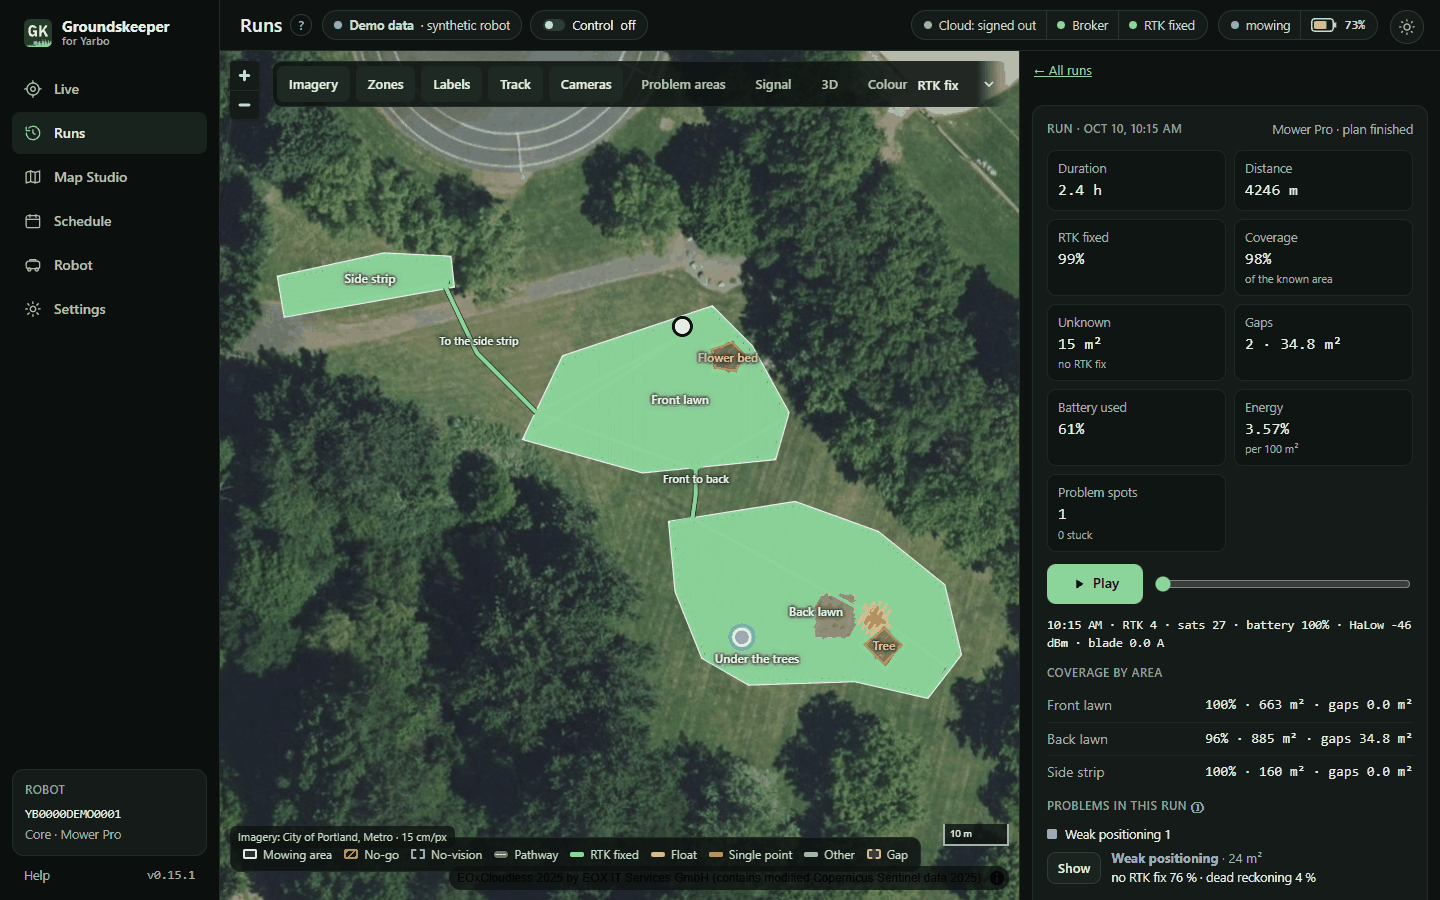
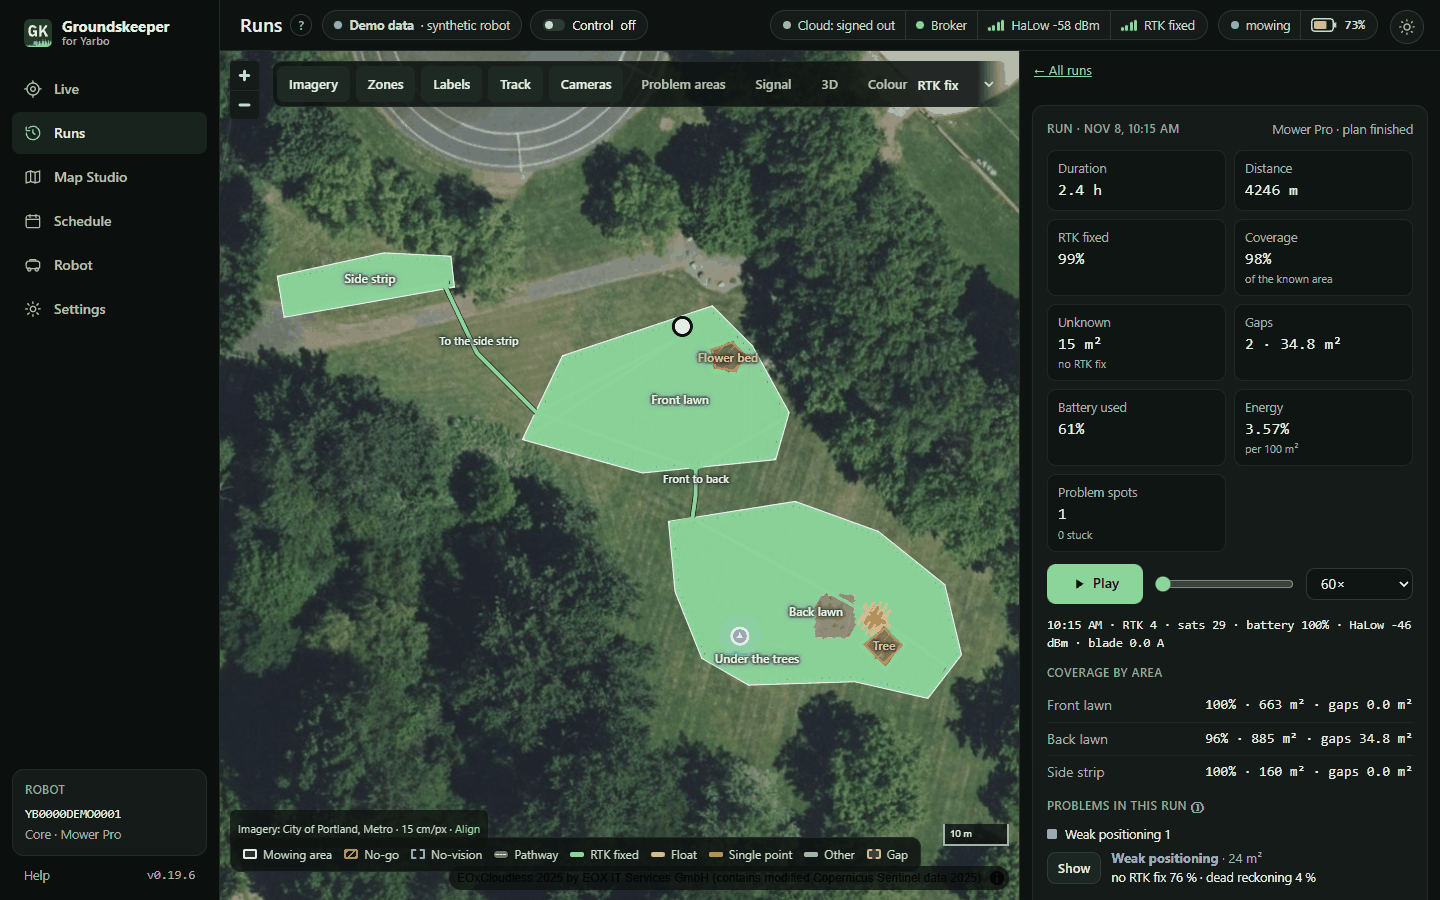
Replay speed in Runs: 1x to 300x real time or the whole run in ~30 s
A speed menu next to the replay slider. At a real speed the replay runs on
robot time and spends each tick sample by sample, hurrying through stretches
where the robot stands still or the samples stop and slowing again where it
moves. Between samples the dot and the 3D model move smoothly; across a break
the robot waits at the last sample. A slow page keeps the pace (a tick may
cover up to 1 s). The menu keeps its width at phone width.

diff --git a/web/app.js b/web/app.js
@@ -123,6 +123,8 @@ const state = {
   replayIndex: 0,
   replayTimer: null,
   replayOn: false,        // once Play or the slider is used, the run's track is drawn only up to the replay point
+  replaySpeed: readPref("replaySpeed", 60, (v) => [1, 10, 60, 300, 0].includes(v)),   // x real time; 0 = the whole run in ~30 s
+  replayT: null,          // the robot time a replay at a real speed has reached (between two samples)
   dataCache: null,
   fitted: false,
   imagery: null,          // { yard: {url, coordinates}, alignment, ref }
@@ -1619,7 +1621,13 @@ function runDetail() {
     h("div", { class: "replay" },
       playButton(),
       h("input", { type: "range", id: "scrub", min: "0", max: String(Math.max(0, rows.length - 1)), value: String(state.replayIndex),
-                   "aria-label": "Replay position", oninput: (e) => { state.replayOn = true; setReplay(Number(e.target.value)); } })),
+                   "aria-label": "Replay position", oninput: (e) => { state.replayOn = true; state.replayT = null; setReplay(Number(e.target.value)); } }),
+      h("select", { id: "replayspeed", class: "field slim", "aria-label": "Replay speed",
+                    title: "Replay speed, times real time. Stretches where the robot stands still go by quickly. Whole run plays it in about 30 s.",
+                    onchange: (e) => { state.replaySpeed = Number(e.target.value); writePref("replaySpeed", state.replaySpeed);
+                                       if (state.replayTimer) { stopPlay(); togglePlay(); } } },
+        [[1, "1×"], [10, "10×"], [60, "60×"], [300, "300×"], [0, "Whole run"]].map(([v, t]) =>
+          h("option", { value: String(v), selected: v === state.replaySpeed || null }, t)))),
     h("p", { class: "mono small", id: "replayinfo" }, replayText(replay, idx)),
     areas.length ? h("div", null, h("p", { class: "label", style: "margin-top:10px" }, "Coverage by area"),
       areas.map((a) => kv(a.name, `${num(a.coverage_pct_of_known)}% · ${num(a.covered_m2)} m² · gaps ${num(a.gap_m2, 1)} m²`)),
@@ -1858,14 +1866,15 @@ function drawCoverage() {
   drawRunTrack();
 }
 
-function setReplay(i) {
+// The replay point: row i, or `frac` of the way on to the next row (a replay at a real speed moves between samples).
+function setReplay(i, frac = 0) {
   const run = state.run;
   if (!run || !run.rows.length) return;
   state.replayIndex = Math.max(0, Math.min(i, run.rows.length - 1));
-  const r = run.rows[state.replayIndex];
+  const r = run.rows[state.replayIndex], n = frac > 0 ? run.rows[state.replayIndex + 1] : null;
   setSource("replay", { type: "FeatureCollection", features: [{ type: "Feature", properties: {},
-    geometry: { type: "Point", coordinates: [r[1], r[2]] } }] });
-  robot3dReplay(r);
+    geometry: { type: "Point", coordinates: n ? [r[1] + (n[1] - r[1]) * frac, r[2] + (n[2] - r[2]) * frac] : [r[1], r[2]] } }] });
+  robot3dReplay(r, n, frac);
   const idx = Object.fromEntries(run.fields.map((f, k) => [f, k]));
   const info = $("#replayinfo");
   if (info) info.textContent = replayText(r, idx);
@@ -1880,11 +1889,40 @@ function togglePlay() {
   if (!state.replayOn || state.replayIndex >= state.run.rows.length - 1) setReplay(0);     // a replay starts at the start
   state.replayOn = true;
   queueReplayTrack();
-  const step = Math.max(1, Math.round((state.run?.rows.length || 0) / 600));
-  state.replayTimer = setInterval(() => {
-    if (!state.run || state.replayIndex >= state.run.rows.length - 1) { stopPlay(); renderRuns(); return; }
-    setReplay(state.replayIndex + step);
-  }, 50);
+  state.replayT = null;                                  // picks up from the replay row
+  const speed = state.replaySpeed;
+  if (!speed) {                                          // the whole run in about 30 s
+    const step = Math.max(1, Math.round((state.run?.rows.length || 0) / 600));
+    state.replayTimer = setInterval(() => {
+      if (!state.run || state.replayIndex >= state.run.rows.length - 1) { stopPlay(); renderRuns(); return; }
+      setReplay(state.replayIndex + step);
+    }, 50);
+  } else {
+    // Robot time runs at `speed`. Where the robot stands still (parked, charging) or the samples stop (a break in the
+    // track) it runs far faster, and the robot waits at the last sample instead of sliding across the break.
+    const spAt = state.run.fields.indexOf("speed");
+    let last = performance.now();
+    state.replayTimer = setInterval(() => {
+      const rows = state.run && state.run.rows;
+      if (!rows || state.replayIndex >= rows.length - 1) { stopPlay(); renderRuns(); return; }
+      const now = performance.now(), dt = Math.min(1, (now - last) / 1000);      // a slow page keeps the pace
+      last = now;
+      let i = state.replayIndex, left = dt;
+      if (state.replayT === null || state.replayT < rows[i][0]) state.replayT = rows[i][0];
+      // Spend the tick sample by sample, each at its own rate, so a hurried stretch ends where the robot moves again.
+      while (left > 0 && i < rows.length - 1) {
+        const span = rows[i + 1][0] - rows[i][0];
+        const rate = span > TRACK_GAP_S || !(Math.abs(rows[i][spAt] || 0) > 0.03) ? Math.max(speed * 20, 600) : speed;
+        const need = (rows[i + 1][0] - state.replayT) / rate;
+        if (need > left) { state.replayT += left * rate; break; }
+        left -= Math.max(0, need);
+        state.replayT = rows[++i][0];
+      }
+      const n = rows[i + 1];
+      const frac = n && n[0] - rows[i][0] <= TRACK_GAP_S ? (state.replayT - rows[i][0]) / Math.max(1e-6, n[0] - rows[i][0]) : 0;
+      setReplay(i, Math.max(0, Math.min(1, frac)));
+    }, 50);
+  }
   $("#playbtn")?.replaceWith(playButton());
 }
 

diff --git a/web/robot3d.js b/web/robot3d.js
@@ -376,16 +376,26 @@ function r3dGate(s, now) {
   return false;
 }
 
-// A replay step: glide from where the model is to the replay row over the next timer tick.
-function robot3dReplay(row) {
+// A replay step: glide from where the model is to the replay point (row, or `frac` of the way on to `next`) over the
+// next timer tick.
+function robot3dReplay(row, next = null, frac = 0) {
   if (!row || !state.run || R3D.mode !== "replay" || !state.map || !state.map.getLayer("robot3d")) return;
   const f = Object.fromEntries(state.run.fields.map((k, i) => [k, i]));
-  const to = { lon: row[f.lon], lat: row[f.lat], heading: row[f.heading] ?? (R3D.pose ? R3D.pose.heading : 0),
-               pitch: row[f.pitch] || 0, roll: row[f.roll] || 0 };
+  const pose = (r) => ({ lon: r[f.lon], lat: r[f.lat], heading: r[f.heading] ?? (R3D.pose ? R3D.pose.heading : 0),
+                         pitch: r[f.pitch] || 0, roll: r[f.roll] || 0 });
+  const to = pose(row);
+  if (next && frac > 0) {
+    const b = pose(next);
+    to.lon += (b.lon - to.lon) * frac;
+    to.lat += (b.lat - to.lat) * frac;
+    to.heading = (to.heading + r3dAngle(b.heading - to.heading) * frac + 360) % 360;
+    to.pitch += (b.pitch - to.pitch) * frac;
+    to.roll += (b.roll - to.roll) * frac;
+  }
   if (!R3D.pose) { R3D.pose = to; r3dKick(); return; }
   const [kx, ky] = r3dMetres(to.lat);
   const far = Math.hypot((to.lon - R3D.pose.lon) * kx, (to.lat - R3D.pose.lat) * ky) > R3D_JUMP_M * 4;
-  R3D.glide = far ? null : { from: { ...R3D.pose }, to, t0: performance.now(), ms: state.replayTimer ? 60 : 120 };
+  R3D.glide = far ? null : { from: { ...R3D.pose }, to, t0: performance.now(), ms: state.replayTimer ? 55 : 120 };
   if (far) R3D.pose = to;
   r3dKick();
 }

diff --git a/web/style.css b/web/style.css
@@ -251,7 +251,8 @@ a { color: var(--link); }
 .legendrow i { display: inline-block; width: 14px; height: 5px; border-radius: 2px; }
 .legendrow i.ramp { width: 90px; height: 7px; }
 .replay { display: flex; align-items: center; gap: 10px; }
-.replay input { flex: 1; accent-color: var(--ok); }
+.replay input { flex: 1; min-width: 0; accent-color: var(--ok); }
+.replay select { flex: none; width: auto; }
 .gaplist { list-style: none; margin: 0; padding: 0; display: flex; flex-direction: column; gap: 6px; font-size: 13px; }
 .gaplist li { display: flex; align-items: center; gap: 10px; }
 .runlist .label { margin: 8px 4px; }

diff --git a/CHANGELOG.md b/CHANGELOG.md
@@ -18,6 +18,9 @@ robot card. Before 0.9.0 the panel had no version numbers; those changes are lis
   page, set with `OIDC_*` in the environment and modelled on Grafana's generic OAuth sign-in. Only the allowed groups
   or email domains get in, and the panel refuses to start with single sign-on on and neither set. `PANEL_PASSWORD=off`
   turns the password off once it works. See Help → Settings → Signing in.
+- **Replay speed.** Next to the replay slider in Runs: 1×, 10×, 60× or 300× real time, or Whole run (about 30 s, as
+  before). Where the robot stands still (parked, charging) or the samples stop, the replay hurries through, and between
+  samples the robot moves smoothly, so a replay, and Follow in 3D, can be watched at a real pace.
 
 ## 0.19.6 — 2026-11-09
 

diff --git a/docs/user/runs.md b/docs/user/runs.md
@@ -11,7 +11,8 @@ coming back across mows. Trends need two mows or more.
 ## A run
 
 Open a run for its stats (duration, distance, RTK share, coverage, gaps, battery and energy per 100 m²), replay
-with a scrubber, coverage by area, and:
+with a scrubber (Play draws the track as it goes; the speed menu next to it runs 1× to 300× real time, hurrying
+through stretches where the robot stood still, or the whole run in about 30 s), coverage by area, and:
 
 - **Duration** is working time: a pause or a charging stop mid-plan is not counted, so a mow paused overnight and
   finished in the morning shows its real length (and pace). A break of half an hour or more shows underneath.
